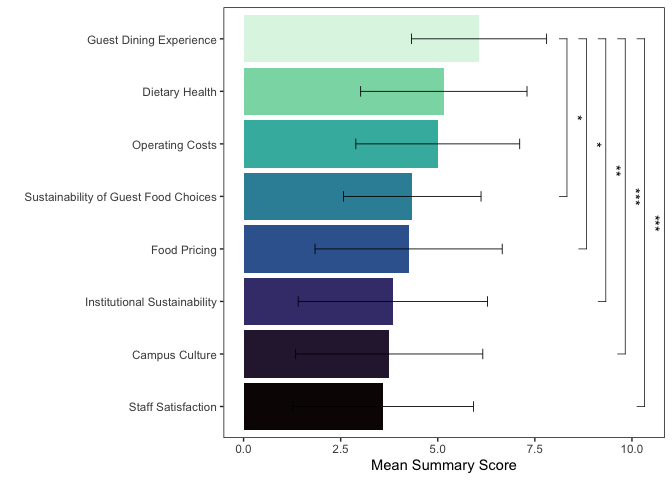
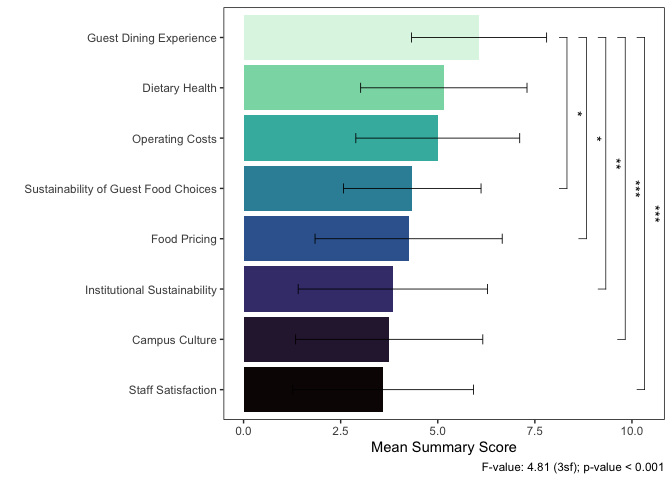
generated two plots highlighting stakeholder rank-choice votes: one examining the frequency with which accessory indicators were selected first and one examining the mean summary score; significance testing completed for both analyses (chi-square for the former and ANOVA with Tukey post-hoc tests fo

diff --git a/scripts/cleaning-script.md b/scripts/cleaning-script.md
@@ -1,8 +1,26 @@
 Cleaning Script
 ================
-Last Updated: February 20, 2025
+Last Updated: February 24, 2025
 
 ## Package Loading
+
+``` r
+library(ggpubr)
+```
+
+    ## Loading required package: ggplot2
+
+``` r
+library(ggsignif)
+library(maps)
+library(pheatmap)
+library(RColorBrewer)
+library(rnaturalearth)
+library(rnaturalearthhires)
+library(sf)
+```
+
+    ## Linking to GEOS 3.11.0, GDAL 3.5.3, PROJ 9.1.0; sf_use_s2() is TRUE
 
 ``` r
 library(tidyverse)
@@ -11,37 +29,16 @@ library(tidyverse)
     ## ── Attaching core tidyverse packages ──────────────────────── tidyverse 2.0.0 ──
     ## ✔ dplyr     1.1.4     ✔ readr     2.1.5
     ## ✔ forcats   1.0.0     ✔ stringr   1.5.1
-    ## ✔ ggplot2   3.5.1     ✔ tibble    3.2.1
-    ## ✔ lubridate 1.9.3     ✔ tidyr     1.3.1
-    ## ✔ purrr     1.0.2     
+    ## ✔ lubridate 1.9.3     ✔ tibble    3.2.1
+    ## ✔ purrr     1.0.2     ✔ tidyr     1.3.1
+
     ## ── Conflicts ────────────────────────────────────────── tidyverse_conflicts() ──
     ## ✖ dplyr::filter() masks stats::filter()
     ## ✖ dplyr::lag()    masks stats::lag()
+    ## ✖ purrr::map()    masks maps::map()
     ## ℹ Use the conflicted package (<http://conflicted.r-lib.org/>) to force all conflicts to become errors
 
 ``` r
-library(ggpubr)
-library(ggsignif)
-library(maps)
-```
-
-    ## 
-    ## Attaching package: 'maps'
-    ## 
-    ## The following object is masked from 'package:purrr':
-    ## 
-    ##     map
-
-``` r
-library(sf)
-```
-
-    ## Linking to GEOS 3.11.0, GDAL 3.5.3, PROJ 9.1.0; sf_use_s2() is TRUE
-
-``` r
-library(RColorBrewer)
-library(rnaturalearth)
-library(rnaturalearthhires)
 library(viridis)
 ```
 
@@ -671,7 +668,6 @@ print(round(ppi_percentage_contributions,2))
     ##   Omitted                   0.20                  20.48
 
 ``` r
-library(pheatmap)
 pheatmap(ppi_percentage_contributions,display_numbers=TRUE,cluster_rows=FALSE,cluster_cols=FALSE,main="Percentage Contributions to Chi-Square Statistic")
 ```
 
@@ -1596,7 +1592,8 @@ score_frequencies %>%
   geom_signif(comparisons=list(c("Guest Dining Experience","Sustainability of Guest Food Choices")),color="black",size=0.25,annotation="*",y_position=8) +
   scale_fill_viridis_d(option="mako") +
   xlab("") + 
-  ylab("Mean Summary Score") + 
+  ylab("Mean Summary Score") +
+  labs(caption="F-value: 4.81 (3sf); p-value < 0.001") + 
   coord_flip() +
   theme(legend.position="none",panel.grid=element_blank(),panel.background=element_rect(fill="white"),panel.border=element_rect(fill=NA),legend.title=element_text(size=10),legend.text=element_text(size=10),plot.title=element_text(size=10))
 ```
@@ -1604,6 +1601,31 @@ score_frequencies %>%
 ![](cleaning-script_files/figure-gfm/unnamed-chunk-75-1.png)<!-- -->
 need to put anova value in caption - could also consider boxplot/violin
 plot
+
+``` r
+summary_score_plot <- score_frequencies %>%
+  ggplot(aes(x=fct_reorder(indicator,score,.fun="mean"),y=score,fill=fct_reorder(indicator,score,.fun="mean"),color=fct_reorder(indicator,score,.fun="mean"))) + 
+  geom_boxplot(outlier.shape=NA,color="black",size=0.25,alpha=0.8) +
+   stat_summary(fun.y=mean,geom="point",shape=20,size=2,color="black",fill="white") +
+  geom_signif(comparisons=list(c("Guest Dining Experience","Staff Satisfaction")),color="black",size=0.25,annotation="***",y_position=10) +
+  geom_signif(comparisons=list(c("Guest Dining Experience","Campus Culture")),color="black",size=0.25,annotation="***",y_position=9.5) +
+  geom_signif(comparisons=list(c("Guest Dining Experience","Institutional Sustainability")),color="black",size=0.25,annotation="**",y_position=9) +
+  geom_signif(comparisons=list(c("Guest Dining Experience","Food Pricing")),color="black",size=0.25,annotation="*",y_position=8.5) +
+  geom_signif(comparisons=list(c("Guest Dining Experience","Sustainability of Guest Food Choices")),color="black",size=0.25,annotation="*",y_position=8) +
+  scale_fill_viridis_d(option="mako") +
+  scale_color_viridis_d(option="mako",alpha=1) +
+  xlab("") + 
+  ylab("Mean Summary Score") + 
+  labs(caption="F-value: 4.81 (3sf); p-value < 0.001") + 
+  coord_flip() +
+  theme(aspect.ratio=0.8,legend.position="none",panel.grid=element_blank(),panel.background=element_rect(fill="white"),panel.border=element_rect(fill=NA),legend.title=element_text(size=10),legend.text=element_text(size=10),plot.title=element_text(size=10))
+```
+
+    ## Warning: The `fun.y` argument of `stat_summary()` is deprecated as of ggplot2 3.3.0.
+    ## ℹ Please use the `fun` argument instead.
+    ## This warning is displayed once every 8 hours.
+    ## Call `lifecycle::last_lifecycle_warnings()` to see where this warning was
+    ## generated.
 
 percent time each was ranked first
 
@@ -1786,7 +1808,7 @@ print(round(first_choice_percentage_contributions,2))
 pheatmap(first_choice_percentage_contributions,display_numbers=TRUE,cluster_rows=FALSE,cluster_cols=FALSE,main="Percentage Contributions to Chi-Square Statistic")
 ```
 
-![](cleaning-script_files/figure-gfm/unnamed-chunk-85-1.png)<!-- -->
+![](cleaning-script_files/figure-gfm/unnamed-chunk-86-1.png)<!-- -->
 
 ``` r
 first_choice_contingency_table <- first_choice_frequencies %>%
@@ -1835,27 +1857,31 @@ first_choice_contingency_table
     ## 16 Sustainability of Guest Food Choices Noniniti…        32         4.17      -2
 
 ``` r
-first_choice_contingency_table %>%
-  ggplot(aes(x=fct_reorder(indicator,frequency),y=frequency,fill=selection,color=selection)) + 
-  geom_col() +
+first_choice_frequency_plot <- ggplot(first_choice_contingency_table[order(first_choice_contingency_table$selection,decreasing=T),],aes(x=indicator,y=frequency,fill=factor(selection,levels=c("Noninitial","Initial")),color=factor(selection,levels=c("Noninitial","Initial")))) + 
+  geom_col(alpha=0.9) +
   geom_text(aes(y=label_y,label=paste(format(contribution,nsmall=2),"%")),color="black",size=3) +
-  geom_signif(comparisons=list(c("Food Choice, Self-Reported","Food Service, Observed")),color="black",size=0.25,annotation="NA",y_position=34,tip_length=0.02,vjust=0) +
+  geom_signif(comparisons=list(c("Guest Dining Experience","Sustainability of Guest Food Choices")),color="black",size=0.25,annotation="n.s.",y_position=34,tip_length=0.02,vjust=0) +
   xlab("Accessory Indicator") +
   ylab("Frequency") +
-  scale_fill_manual(values=c("lavender","lightslateblue")) +
-  scale_color_manual(values=c("lavender","lightslateblue")) +
+  scale_fill_manual(values=c("slateblue4","mediumaquamarine")) +
+  scale_color_manual(values=c("slateblue4","mediumaquamarine")) +
+  scale_x_discrete(limits=c("Sustainability of Guest Food Choices","Staff Satisfaction","Food Pricing","Operating Costs","Campus Culture","Institutional Sustainability","Dietary Health","Guest Dining Experience")) +
+  scale_y_continuous(breaks=c(0,8,16,24,32)) +
   guides(fill=guide_legend(title="Mode"),color=guide_legend(title="Mode")) +
-  labs(caption="X-squared: 91.3 (3sf); p-value < 0.001") + 
-  theme(aspect.ratio=0.8,legend.position="right",panel.grid=element_blank(),panel.background=element_rect(fill="white"),panel.border=element_rect(fill=NA),legend.title=element_text(size=10),legend.text=element_text(size=10),plot.title=element_text(size=10))
+  labs(caption="X-squared: 13.7 (3sf); p-value = 0.056") + 
+  theme(aspect.ratio=0.4,legend.position="right",panel.grid=element_blank(),panel.background=element_rect(fill="white"),panel.border=element_rect(fill=NA),legend.title=element_text(size=10),legend.text=element_text(size=10),plot.title=element_text(size=10))
 ```
 
-    ## Warning: Computation failed in `stat_signif()`.
-    ## Caused by error in `if (scales$x$map(comp[1]) == data$group[1] | manual) ...`:
-    ## ! missing value where TRUE/FALSE needed
+``` r
+preliminary_indicator_rankings <- 
+ggarrange(first_choice_frequency_plot,summary_score_plot,
+          nrow=2,
+          labels=c("A","B"))
+ggsave(filename="preliminary_indicator_rankings.png",plot=preliminary_indicator_rankings,path="/Users/kenjinchang/github/stakeholder-analysis/figures",width=35,height=28,units="cm",dpi=150,limitsize=TRUE)
+preliminary_indicator_rankings
+```
 
-![](cleaning-script_files/figure-gfm/unnamed-chunk-87-1.png)<!-- -->
-
-CORRECT CAPTION VALUES
+![](cleaning-script_files/figure-gfm/unnamed-chunk-89-1.png)<!-- -->
 
 ``` r
 survey_data %>% mutate(dietary_sustainability_over_dietary_health=case_when(dietary_sustainability_ranking<dietary_health_ranking ~ 1,
